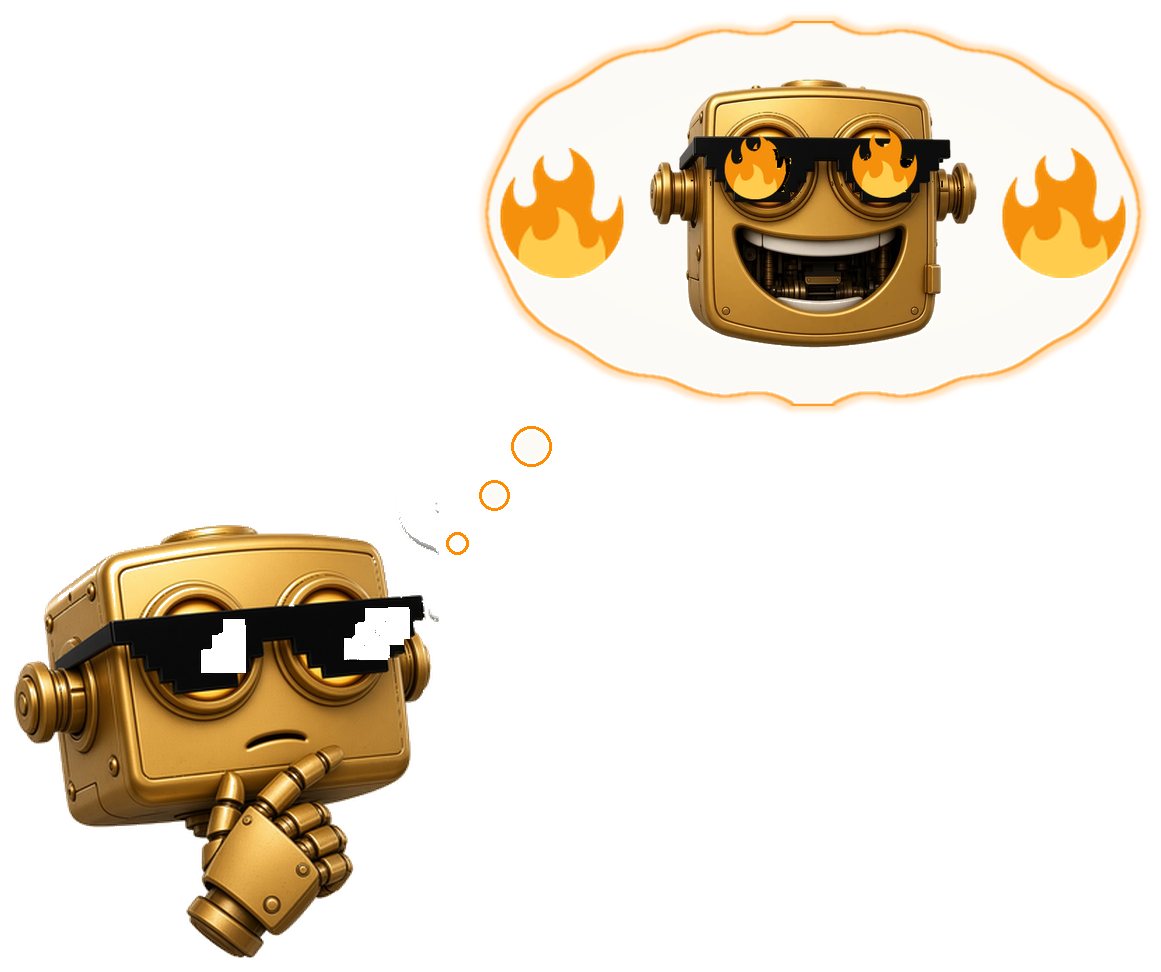
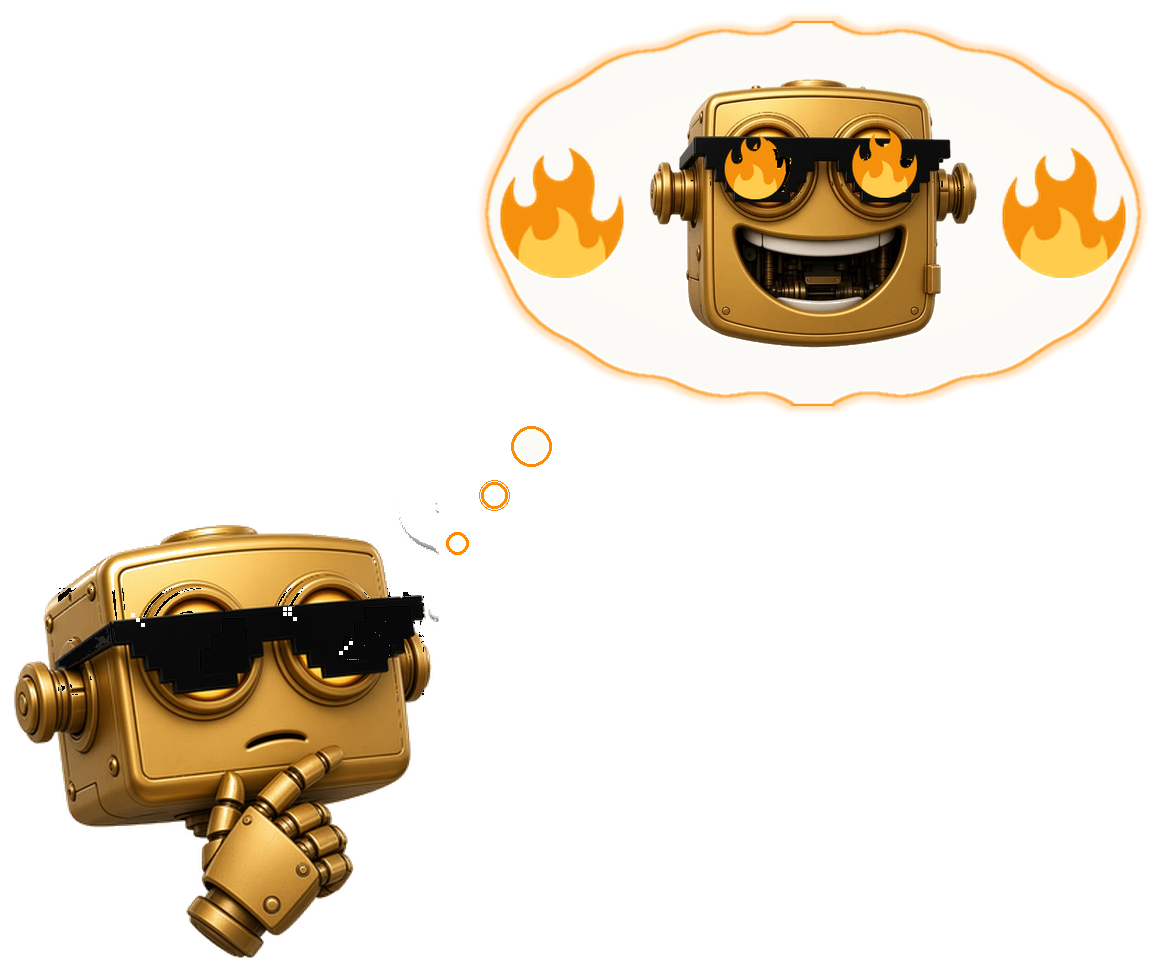
v22: smaller separated glasses glints; solid first trail circle

diff --git a/index.html b/index.html
@@ -149,7 +149,7 @@
 <body>
   <main class="wrap">
     <div class="badge">NOT A FLAMETHROWER · <span>coming soon</span></div>
-    <img class="hero" src="robot.png?v=21" alt="Crowded Tram Business Robot with pixel shades" />
+    <img class="hero" src="robot.png?v=22" alt="Crowded Tram Business Robot with pixel shades" />
     <h1>NOT<em>GROK</em>TOKEN</h1>
     <p class="tag">50% wisecrack genius. 50% heart. Community culture, memes, and swag — stuffed robots & tees on the way. No rush. No noise.</p>
     <div class="split">
